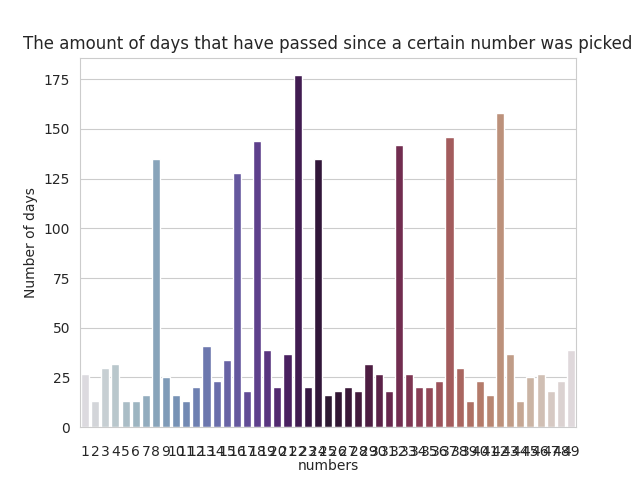
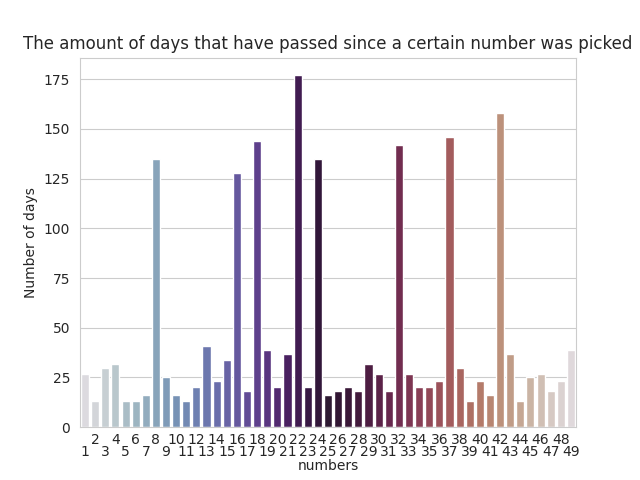
implemented custom labels to every graph

Changed region(s): [[0.125, 0.9062, 0.9062, 0.9688]]

diff --git a/the_results/data/graphs.py b/the_results/data/graphs.py
@@ -8,37 +8,37 @@ from datetime import datetime
 
 df2 = get_dates_results()
 
-# This is basically so that numbers don't go on top of each other 
-def offset_for_labeles(ax, offset= -16):
-    #offset = -16  
-    for i, label in enumerate(ax.get_xticklabels()):
-    
-        y = offset
-        ax.text(i, y, label.get_text(), ha='center', va='bottom', fontsize=10)
-        
-        offset = - 16
-        if i%2 == 1:
-            d = 0
-        else:
-            d = 6
-
-        offset += d
-        
-    ax.set_xticklabels([])
-
-
 
 sub_df1 = df2[["number","average_time_between"]]
 
 sns.set_style("darkgrid")  
-ax = sns.barplot(x='number', y='average_time_between', data=sub_df1, palette='Blues_d') 
+cx = sns.barplot(x='number', y='average_time_between', data=sub_df1, palette='Blues_d') 
 plt.title("On average how long it takes for number to be picked again")  
-plt.xlabel("number", labelpad=16) 
+plt.xlabel("number",labelpad=19) 
 plt.ylabel("Number of days")  
 
-offset_for_labeles(ax,-10)
-plt.savefig('the_results/graphs/average_number_od_days.png')
 
+# This is the code responsible for the custom assignment of labels for each bar in a way that ensures that 
+# adjacent bars' labels do not overlap.
+
+offset = -11
+for i, label in enumerate(cx.get_xticklabels()):
+   
+    x = i
+    y = offset
+    cx.text(x, y, label.get_text(), ha='center', va='bottom', fontsize=10)
+    
+    offset = - 11
+    if i%2 == 1:
+        d = 0
+    else:
+        d = 6
+
+    offset += d
+    
+cx.set_xticklabels([])
+
+plt.savefig('the_results/graphs/average_number_od_days.png')
 #plt.show()
 plt.clf()
 
@@ -51,13 +51,31 @@ df = df.sort_values(by='occurences', ascending=False)
 sub_df3 = df[['number','occurences']]
 
 sns.set_style("darkgrid")  
-ax = sns.barplot(x='number', y='occurences', data=sub_df3, palette='Oranges_r') 
-plt.xlabel('number of occurences', labelpad=16)
+bx = sns.barplot(x='number', y='occurences', data=sub_df3, palette='Oranges_r') 
+plt.xlabel('number of occurences',labelpad=18)
 plt.ylabel('Numbers')
 plt.title('How many times each number got pick')
 
-#plt.xticks(rotation=90)
-offset_for_labeles(ax)
+
+
+offset = - 2.5
+for i, label in enumerate(bx.get_xticklabels()):
+   
+    x = i
+    y = offset
+    bx.text(x, y, label.get_text(), ha='center', va='bottom', fontsize=10)
+    
+    offset = - 2.5
+    if i%2 == 1:
+        d = 0
+    else:
+        d = 1
+
+    offset += d
+    
+bx.set_xticklabels([])
+
+
 plt.savefig('the_results/graphs/basic_graph_number_of_picks.png')
 #plt.show()
 plt.clf()
@@ -74,7 +92,24 @@ plt.xlabel("numbers",labelpad=16)
 plt.ylabel("Number of days")
 
 
-offset_for_labeles(ax)
+
+offset = -16  
+for i, label in enumerate(ax.get_xticklabels()):
+   
+    x = i
+    y = offset
+    ax.text(x, y, label.get_text(), ha='center', va='bottom', fontsize=10)
+    
+    offset = - 16
+    if i%2 == 1:
+        d = 0
+    else:
+        d = 6
+
+    offset += d
+    
+    
+ax.set_xticklabels([])
 
 
 plt.savefig('the_results/graphs/days_since_last_pick.png')
